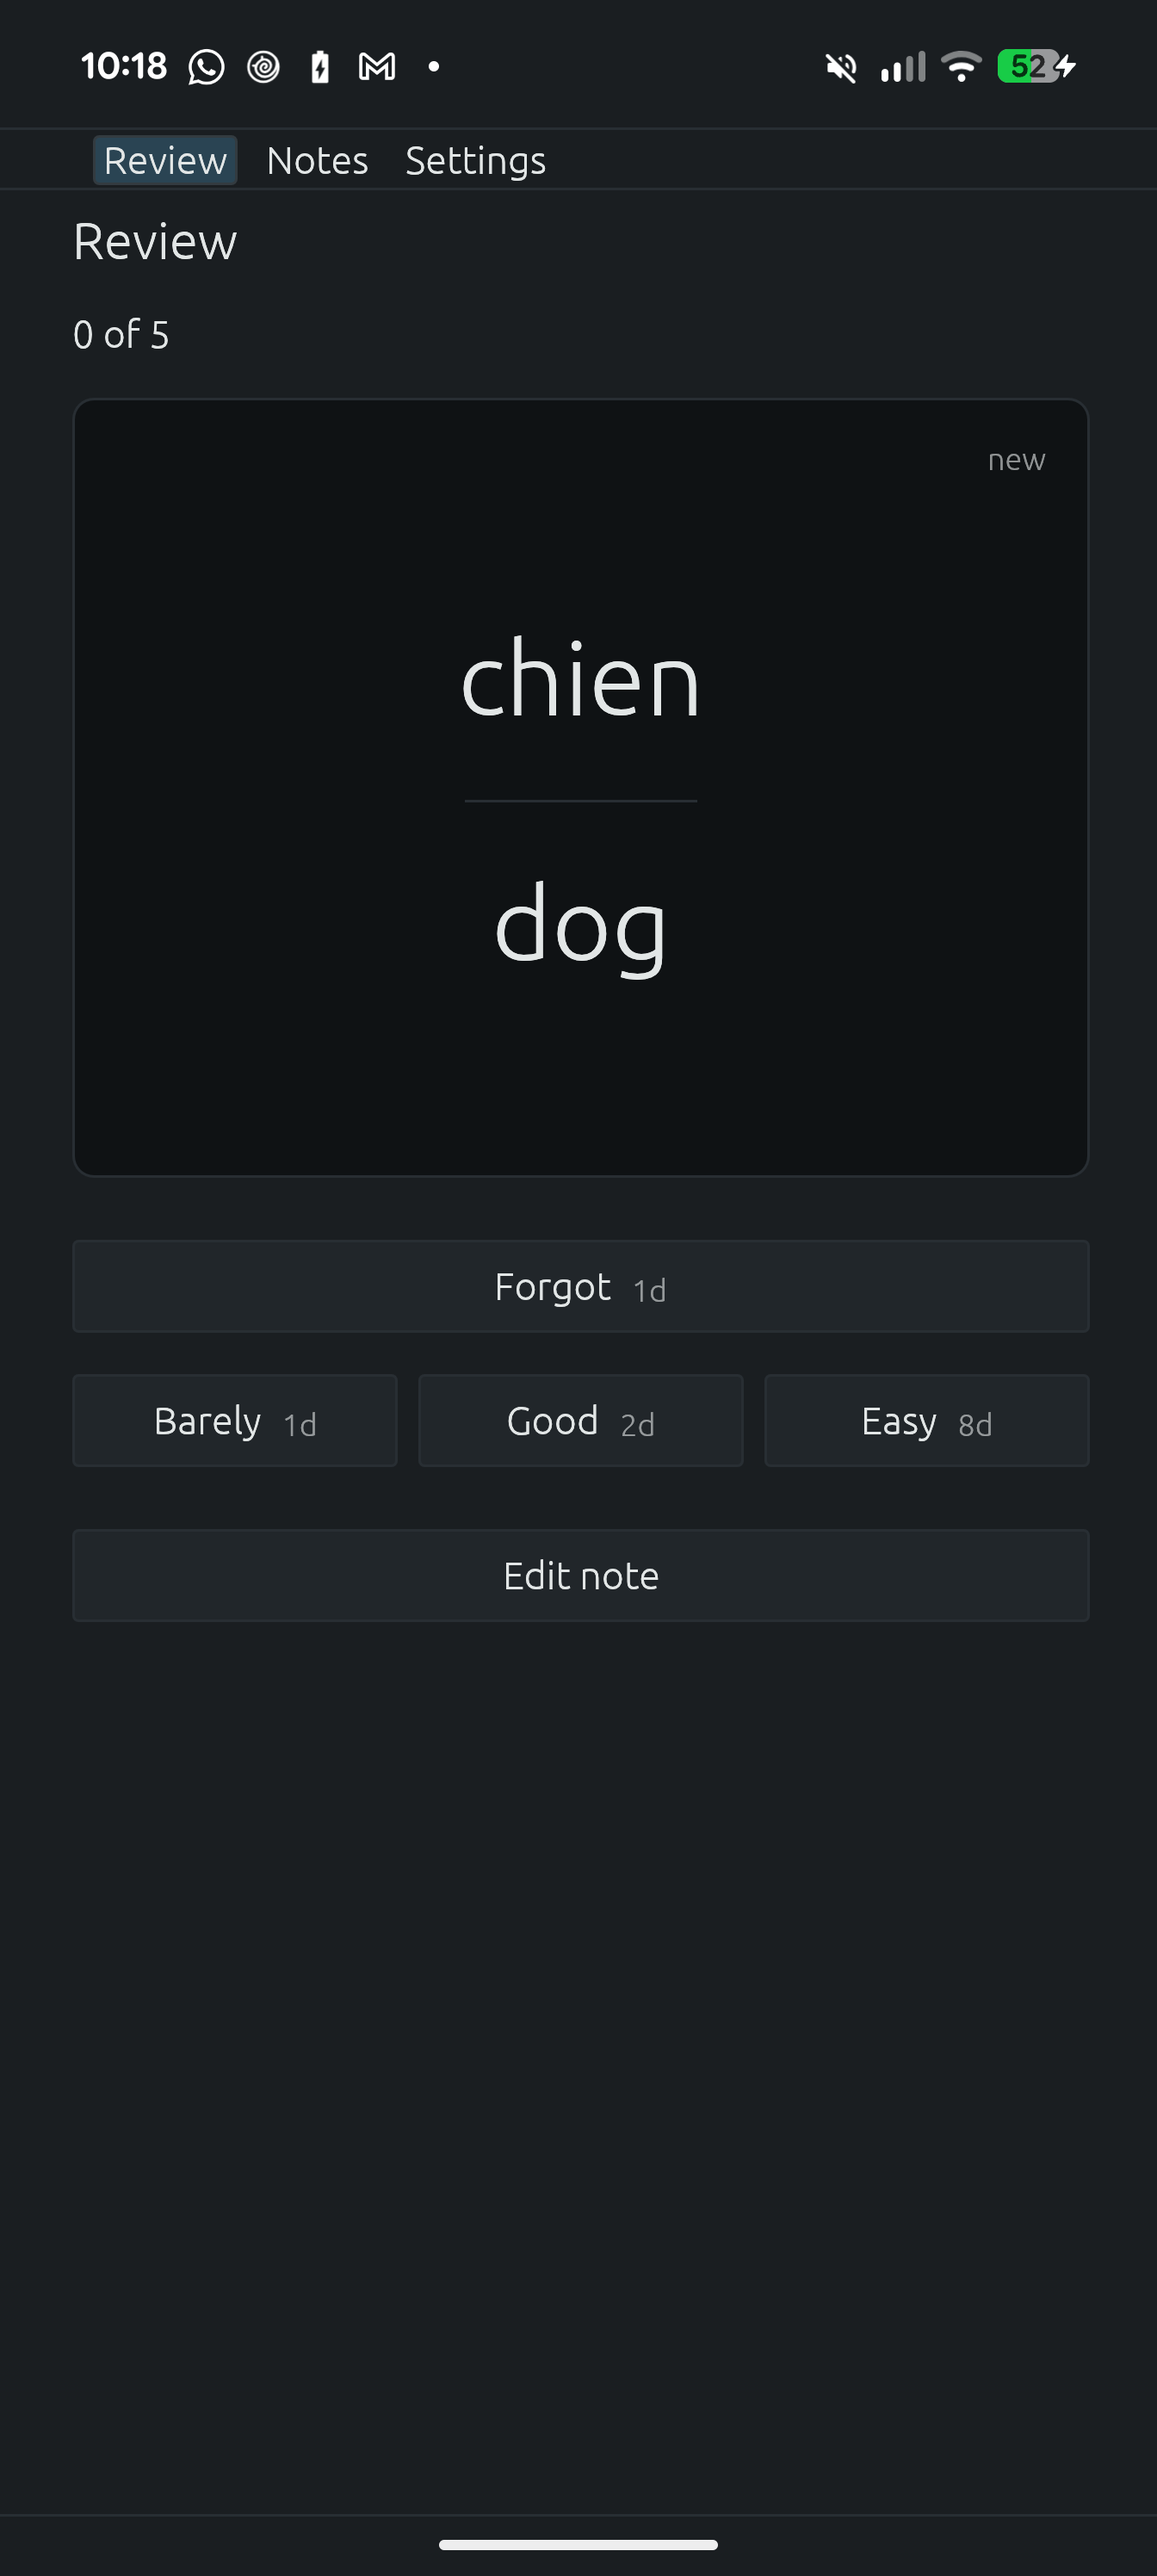
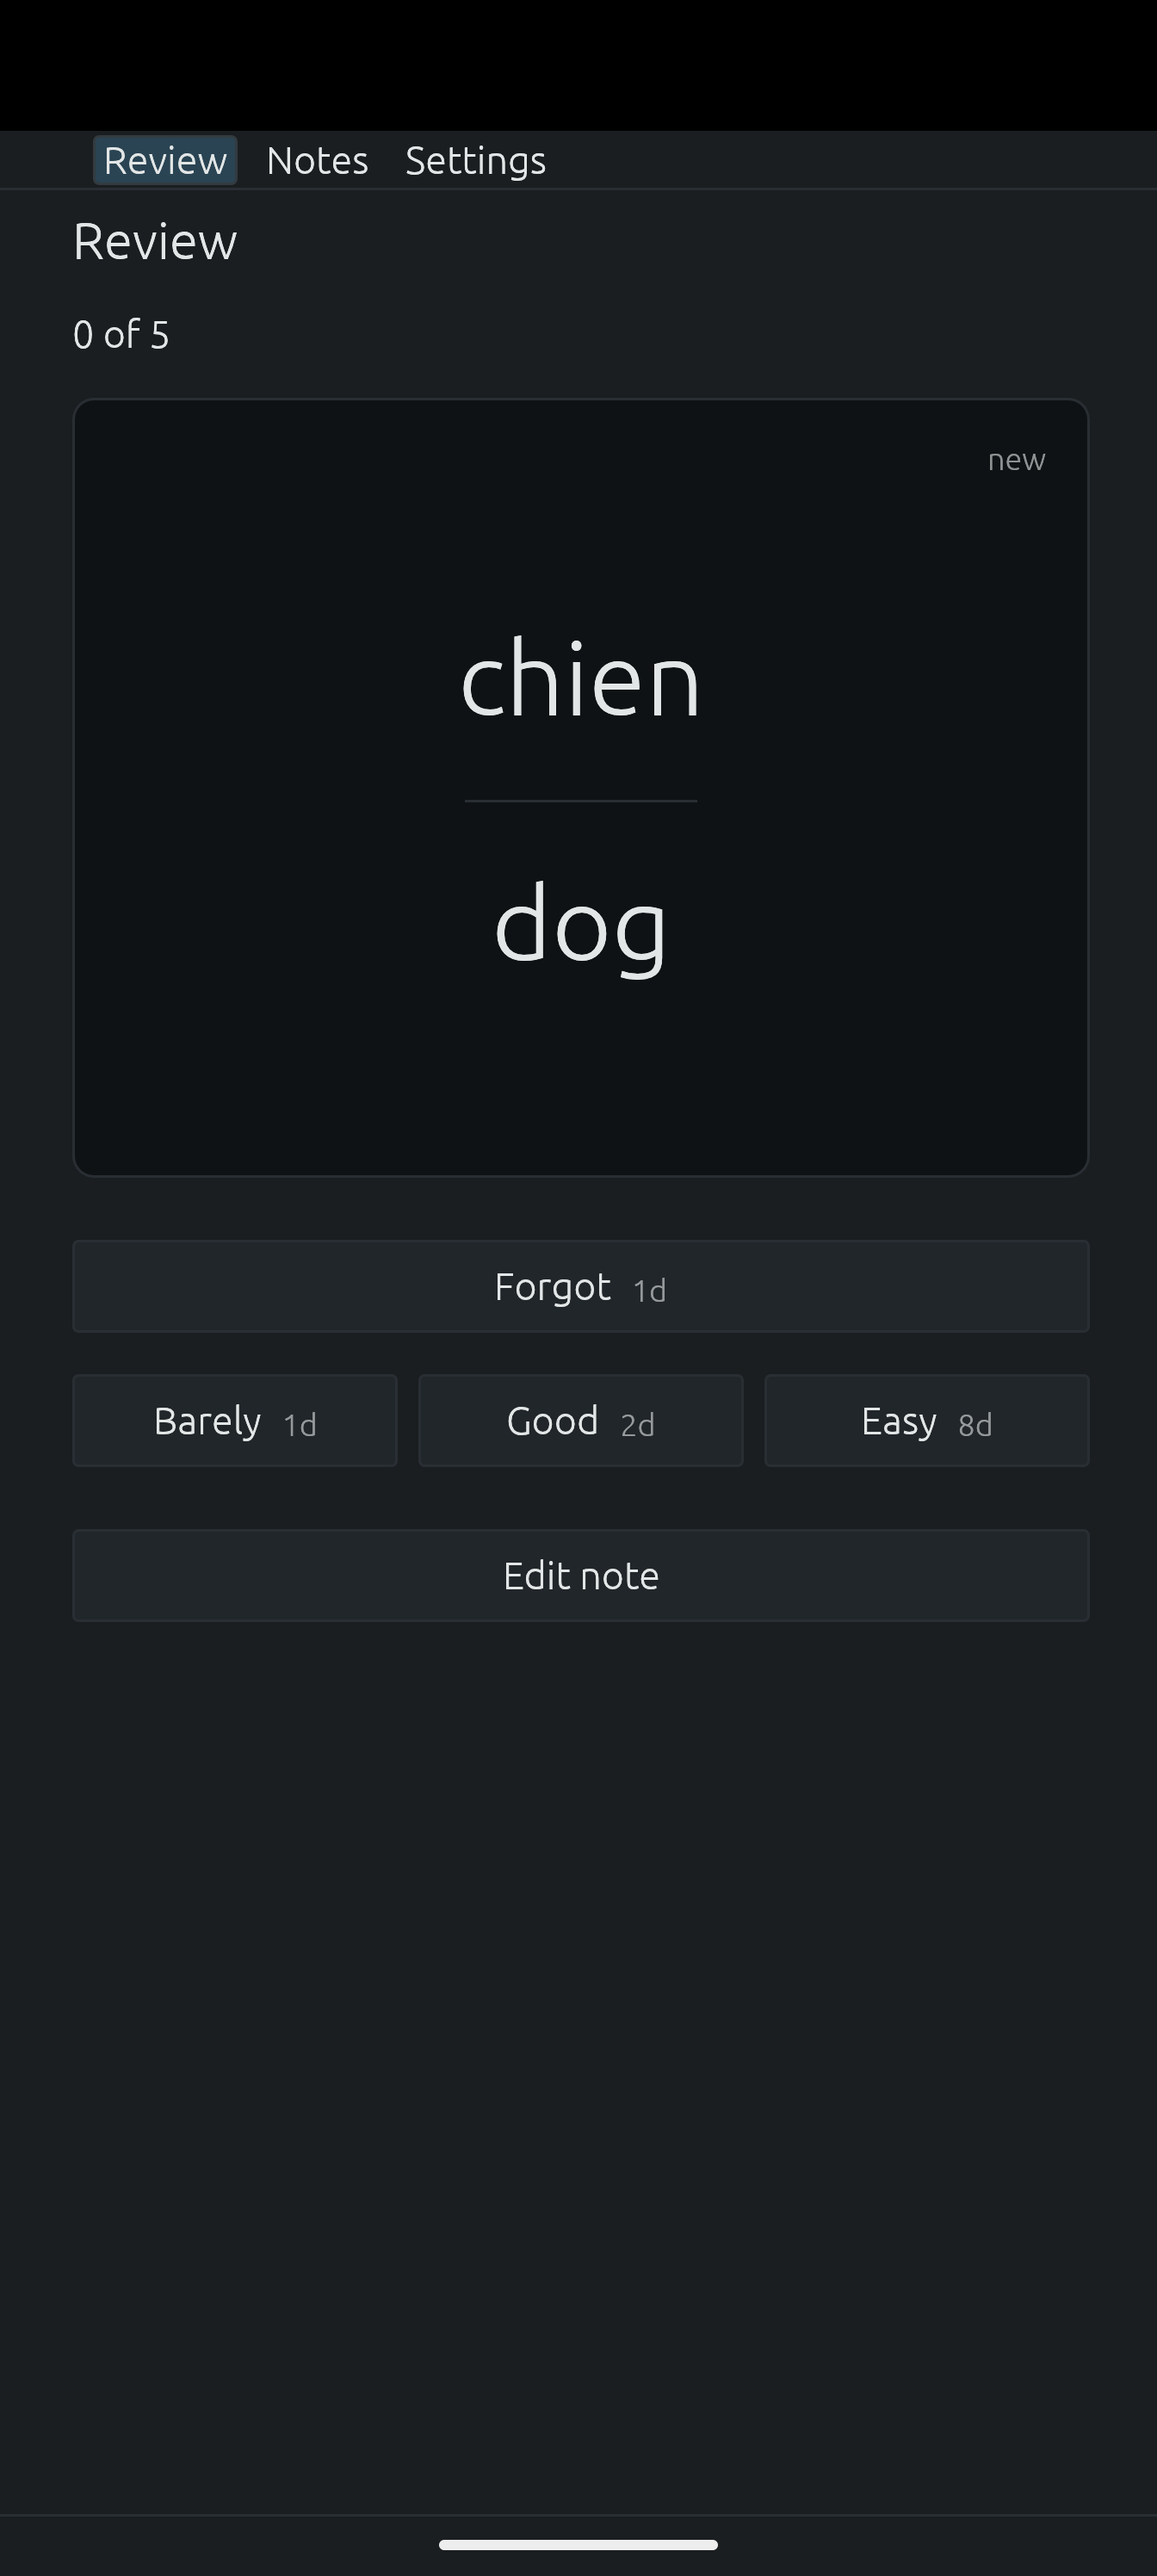
docs(Design): 🔒 redact the status bar from the handset captures
The captures come off a personal device rather than an emulator, so both
carried notification icons and a carrier reading in a public repository.
Painted over in place at the exact inset height — 151px portrait, 84px
landscape — rather than cropped, so the y=1880 of 2992 the write-up
measures against the first image is still true of the file as committed.

Changed region(s): [[0.0, 0.0, 1.0, 0.0622]]

diff --git a/docs/design/android-checkpoint-2026-08-12/README.md b/docs/design/android-checkpoint-2026-08-12/README.md
@@ -153,6 +153,12 @@ Everything above is preparation. This is the checkpoint: the same build in a han
 Pixel 8 Pro, screen brightness pinned low in an already-dim room, judged one question at a time.
 `handset/01-review-revealed-low-brightness.png` is the screen all four judgements were made against.
 
+**The black band at the top of both captures is a redaction, not a defect.** These come off a
+personal device rather than an emulator, so the status bar carried notification icons and a carrier
+reading that are nothing to do with the application. It is painted over **in place** rather than
+cropped, at the exact inset height — 151px in portrait, 84px in landscape — so every coordinate this
+section measures is still true of the image as committed.
+
 ### The palette holds at low brightness
 
 The card still reads as **a well cut into the page** — the edge survives. This is the answer worth
